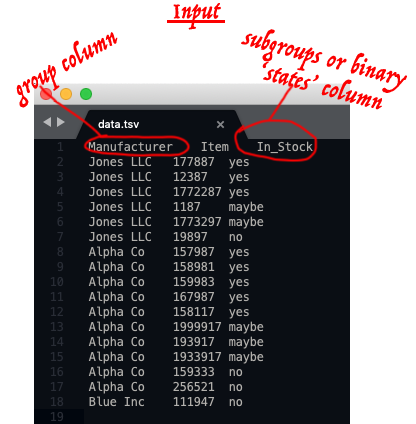
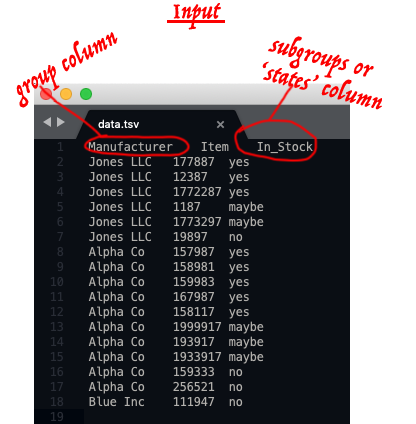
fix text

Changed region(s): [[0.5625, 0.0613, 0.9688, 0.2146]]

diff --git a/README.md b/README.md
@@ -15,6 +15,10 @@ If you have data as a table from elsewhere you can convert it/export into tabula
 
 The intent is that there be (at least) **four** notebooks:  
 The **first** notebook that opens in the active session demonstrates a script that makes it easy to make a plot like the following from a dataframe or data table.  
+Typical input for first two notebooks (only a portion is represented; red annotation added for illustrating terminology):
+
+![typical_input_repr](imgs/repr_df.png)  
+
 Typical results (**two separate images shown**):
 
 ![typical1](imgs/donut_plot_with_subgroups_from_dataframe1.png)  
